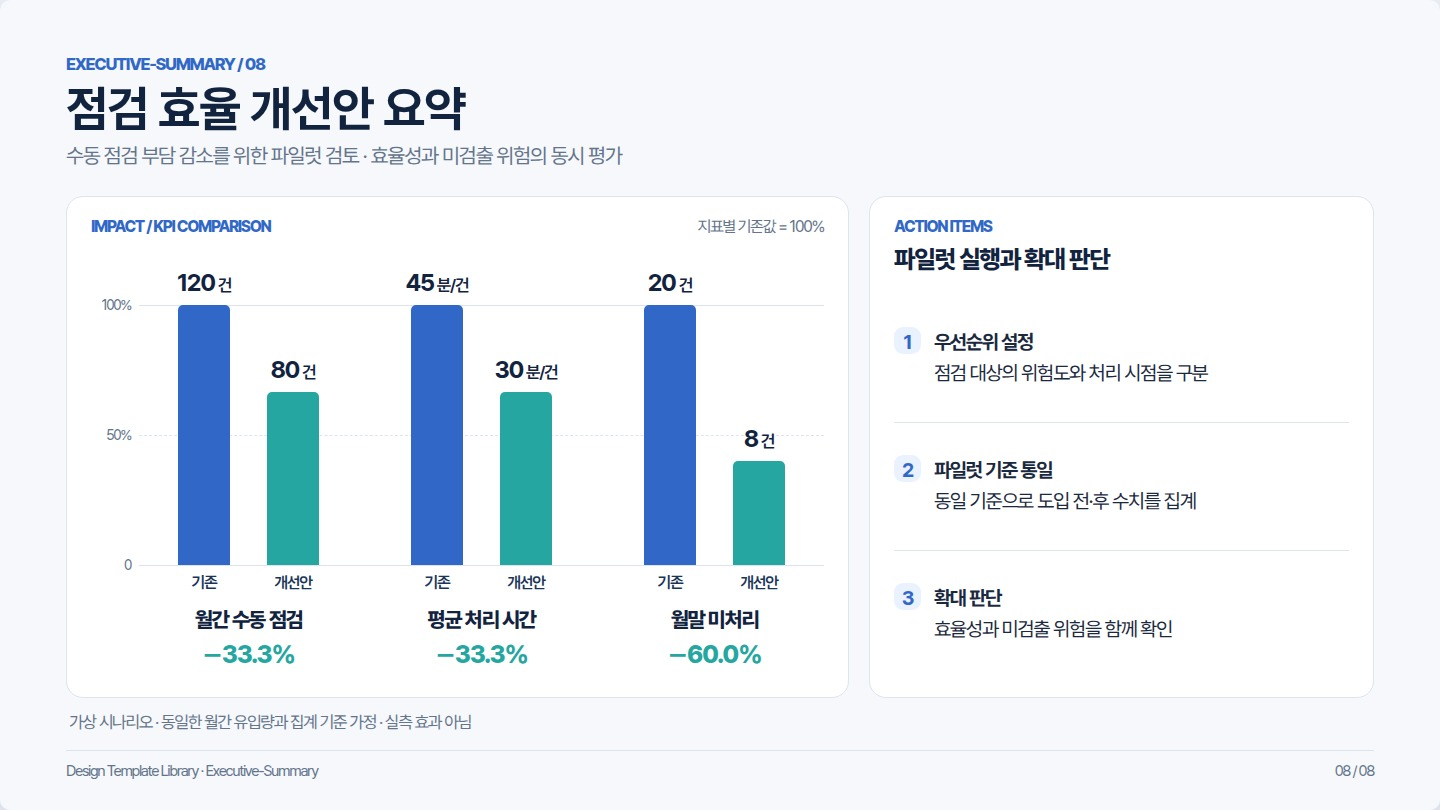
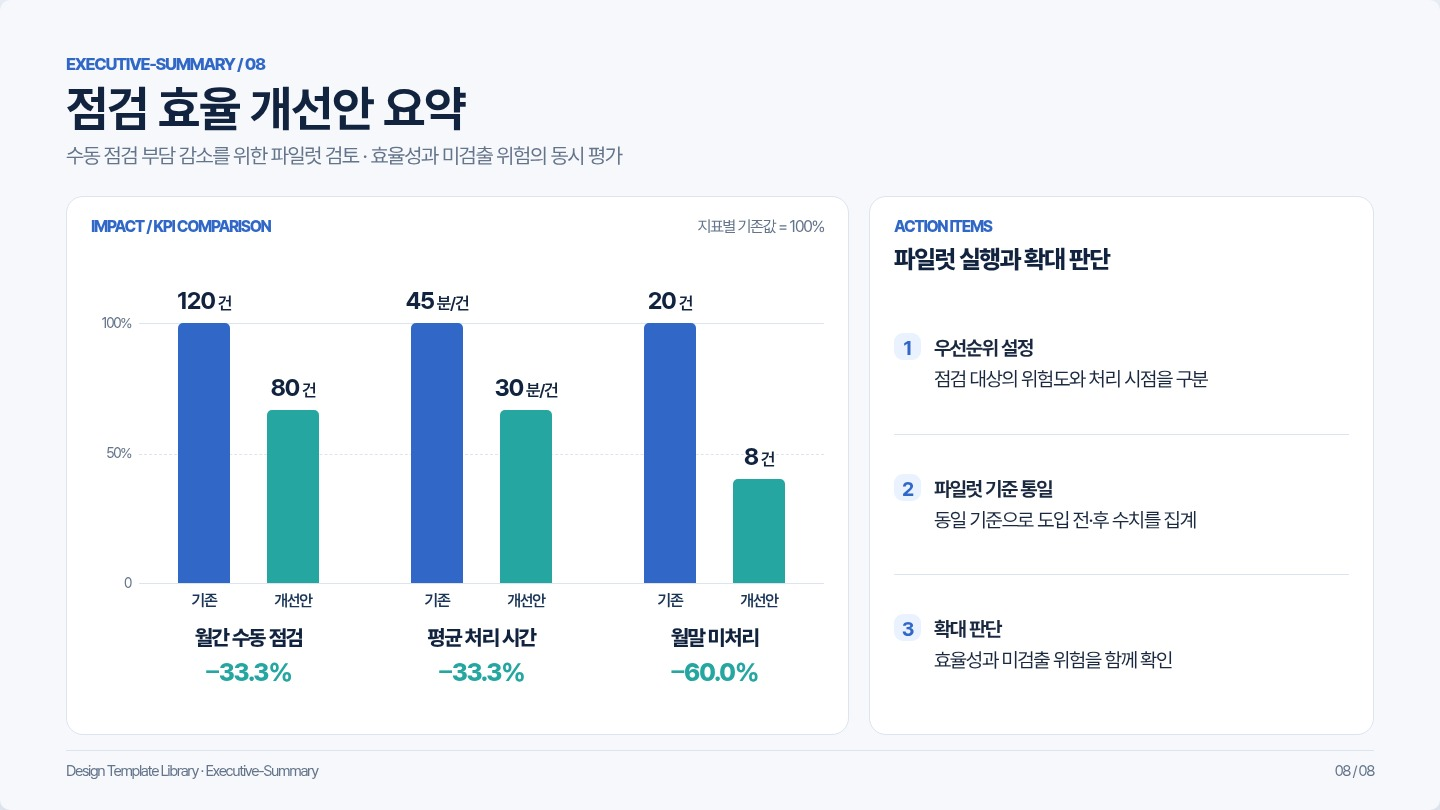
Remove Executive Summary scenario footnote and reclaim its space
Keep the hypothetical data assumptions in the catalog. Refresh the Chromium preview and five-viewport validation evidence.

diff --git a/templates/html/index.html b/templates/html/index.html
@@ -8,7 +8,7 @@
 <a class="gallery-item" href="interactive.html"><img loading="lazy" src="../../previews/html-interactive.jpg?v=semantic-colors-20261021" alt="Interactive 레퍼런스 미리보기"><div class="gallery-item-content"><div style="font-size:14px;color:#3168C8;font-weight:800">05 · HTML 패턴</div><h2>Interactive</h2><p>조작과 계산 결과를 실시간 연결</p></div></a>
 <a class="gallery-item" href="architecture.html"><img loading="lazy" src="../../previews/html-architecture.jpg?v=semantic-colors-20261021" alt="Architecture 레퍼런스 미리보기"><div class="gallery-item-content"><div style="font-size:14px;color:#3168C8;font-weight:800">06 · HTML 패턴</div><h2>Architecture</h2><p>모델 구조와 Tensor Shape</p></div></a>
 <a class="gallery-item" href="experiment.html"><img loading="lazy" src="../../previews/html-experiment.jpg?v=semantic-colors-20261021" alt="Experiment 레퍼런스 미리보기"><div class="gallery-item-content"><div style="font-size:14px;color:#3168C8;font-weight:800">07 · HTML 패턴</div><h2>Experiment</h2><p>혼동행렬과 평가 지표 비교</p></div></a>
-<a class="gallery-item" href="executive-summary.html"><img loading="lazy" src="../../previews/html-executive-summary.jpg?v=grouped-kpi-20261021" alt="Executive Summary 레퍼런스 미리보기"><div class="gallery-item-content"><div style="font-size:14px;color:#3168C8;font-weight:800">08 · HTML 패턴</div><h2>Executive Summary</h2><p>주요 지표·비교·조치 사항</p></div></a></div>
+<a class="gallery-item" href="executive-summary.html"><img loading="lazy" src="../../previews/html-executive-summary.jpg?v=grouped-kpi-clean-20261021" alt="Executive Summary 레퍼런스 미리보기"><div class="gallery-item-content"><div style="font-size:14px;color:#3168C8;font-weight:800">08 · HTML 패턴</div><h2>Executive Summary</h2><p>주요 지표·비교·조치 사항</p></div></a></div>
 <section class="gallery-feature"><img src="../../previews/dual-mode-process-slide.jpg" alt="CNN 강의의 Slide Mode 미리보기"><div><div class="kicker">CONNECTED EXAMPLE COURSE</div><h2>연속 강의 예제 · CNN</h2><p>8종의 독립적인 레퍼런스와 별도로, 5개 개념을 웹 교과서(Scroll)와 발표 자료(Slide) 두 방식으로 보여줍니다.</p><a href="../dual-mode-learning/scroll.html">웹 교과서 보기 ↗</a><a href="../dual-mode-learning/slides.html">슬라이드 보기 ↗</a></div></section>
 <p style="margin-top:22px"><small>8종 레퍼런스는 HTML Scroll·Slide 제작을 위한 디자인 패턴입니다. PPTX 제작·변환·동기화는 지원하지 않습니다.</small></p>
 </main></body></html>

diff --git a/templates/html/executive-summary.html b/templates/html/executive-summary.html
@@ -10,7 +10,7 @@
   <style>
 /* Executive-only grouped chart: each KPI baseline is normalized to 100%. */
 .executive-summary-slide .content {
-  display:grid;grid-template-rows:minmax(0,1fr) auto;gap:12px;
+  display:grid;grid-template-rows:minmax(0,1fr);
 }
 .executive-summary-slide .executive-grid {
   grid-template-columns:minmax(0,1.55fr) minmax(0,1fr);
@@ -91,7 +91,6 @@
   padding:24px 0;align-items:start;align-content:center;gap:14px;line-height:1.55;
 }
 .executive-summary-slide .exec-action + .exec-action {border-top:1px solid var(--border);}
-.executive-summary-slide .content > .ref-note {margin:0 3px!important;}
 @media(max-width:900px) {
   .executive-summary-slide .executive-grid {grid-template-columns:1fr;height:auto;}
   .executive-summary-slide .exec-chart {margin:0;}
@@ -178,7 +177,6 @@
 <div class="exec-action"><strong>3</strong><span><b>확대 판단</b><br>효율성과 미검출 위험을 함께 확인</span></div></div>
         </section>
       </div>
-      <p class="ref-note" style="margin:13px 3px 0">가상 시나리오 · 동일한 월간 유입량과 집계 기준 가정 · 실측 효과 아님</p>
     </div>
     <footer class="footer"><span>Design Template Library · Executive-Summary</span><span>08 / 08</span></footer>
   </section>

diff --git a/scripts/render_previews.py b/scripts/render_previews.py
@@ -112,7 +112,7 @@ def check_executive(page, width):
         obsolete:document.querySelectorAll('.executive-kpis,.executive-kpi,.exec-track,.exec-bar').length,
         title:document.querySelector('h1').textContent,
         subtitle:document.querySelector('.subtitle').textContent,
-        note:document.querySelector('.content > .ref-note').textContent,
+        note:document.querySelector('.content > .ref-note')?.textContent ?? null,
         footer:[...document.querySelectorAll('.footer span')].map(e=>e.textContent),
         actions:[...document.querySelectorAll('.exec-action')].map(e=>({
           number:e.querySelector('strong').textContent,
@@ -181,7 +181,7 @@ def check_executive(page, width):
         previous=group
     assert result['title']=='점검 효율 개선안 요약'
     assert result['subtitle']=='수동 점검 부담 감소를 위한 파일럿 검토 · 효율성과 미검출 위험의 동시 평가'
-    assert result['note']=='가상 시나리오 · 동일한 월간 유입량과 집계 기준 가정 · 실측 효과 아님'
+    assert result['note'] is None, (width, 'removed scenario note still present', result)
     assert result['footer']==['Design Template Library · Executive-Summary','08 / 08']
     assert result['actions']==[
         dict(number='1',title='우선순위 설정',detail='점검 대상의 위험도와 처리 시점을 구분'),

diff --git a/TEMPLATE_CATALOG.md b/TEMPLATE_CATALOG.md
@@ -26,7 +26,7 @@
 - **Interactive**: 조작할 수 있는 변수와 화면에 표시하는 계산이 일치해야 합니다. 계산 예시는 정적 이미지로 대체하지 않습니다.
 - **Architecture**: 각 텐서의 H/W/C와 stride·padding 관계를 확인합니다.
 - **Experiment**: 수치 예시는 실제 실험 데이터와 구분합니다. 가상 12개 샘플로 TN=5, FP=1, FN=2, TP=4를 사용했습니다.
-- **Executive Summary**: 개선 수치가 가상인 경우 명시하며, 숫자보다 의사결정 메시지를 우선합니다. 세 지표를 **하나의 그룹형 세로 막대그래프의 x축**에 나란히 놓고, 각 지표에 기존/개선 막대 2개와 감소율을 표시합니다(월간 점검 120→80건 −33.3%, 평균 처리 시간 45→30분/건 −33.3%, 월말 미처리 20→8건 −60.0%). 막대 위에 실제 값과 단위를 표시하며, 공통 비율축(0·50·100%)은 각 지표의 기존 값을 100%로 정규화합니다. 단위가 다른 원래 수치를 하나의 절대값 축에서 비교하지 않습니다. 기존 카드 내부의 과도한 좌우 여백을 줄이고 비교 그래프 영역을 넓혔으며, 모바일에서도 세 지표의 가로 그룹을 유지합니다. 상단 KPI 요약과 가로 그래프의 중복 표시는 제거했습니다. 1500×950 / 1366×768 / 1280×720 / 900×900 / 390×844 Chromium 검증 완료 ([검증 JSON](previews/review/executive-summary-validation.json)).
+- **Executive Summary**: 개선 수치가 가상인 경우 명시하며, 숫자보다 의사결정 메시지를 우선합니다. 현재 예시의 수치는 동일한 월간 유입량과 집계 기준을 가정한 가상 데이터이며, 실측 효과가 아닙니다. 세 지표를 **하나의 그룹형 세로 막대그래프의 x축**에 나란히 놓고, 각 지표에 기존/개선 막대 2개와 감소율을 표시합니다(월간 점검 120→80건 −33.3%, 평균 처리 시간 45→30분/건 −33.3%, 월말 미처리 20→8건 −60.0%). 막대 위에 실제 값과 단위를 표시하며, 공통 비율축(0·50·100%)은 각 지표의 기존 값을 100%로 정규화합니다. 단위가 다른 원래 수치를 하나의 절대값 축에서 비교하지 않습니다. 기존 카드 내부의 과도한 좌우 여백을 줄이고 비교 그래프 영역을 넓혔으며, 모바일에서도 세 지표의 가로 그룹을 유지합니다. 상단 KPI 요약과 가로 그래프의 중복 표시는 제거했습니다. 1500×950 / 1366×768 / 1280×720 / 900×900 / 390×844 Chromium 검증 완료 ([검증 JSON](previews/review/executive-summary-validation.json)).
 
 ## 색상 및 카드 적용 기준
 
